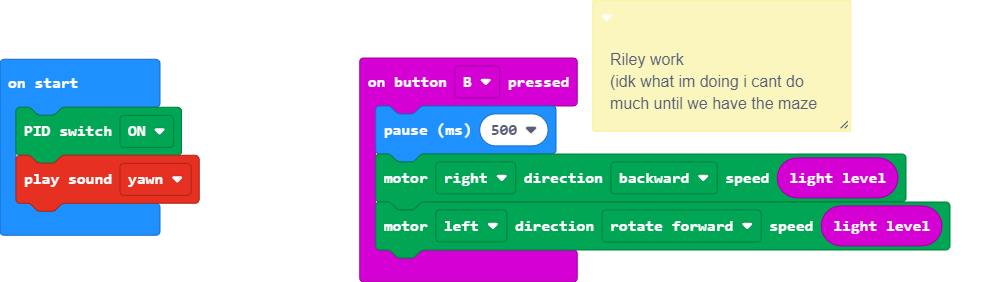
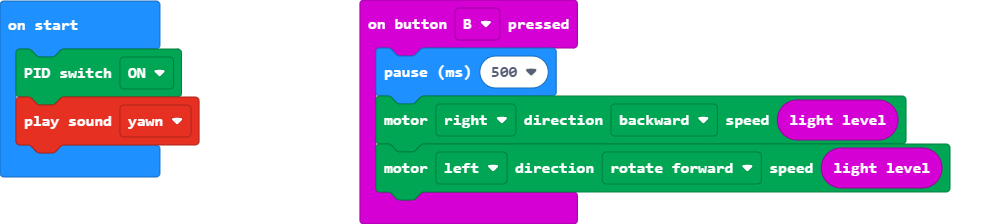
Update main.blocks, main.ts

diff --git a/main.ts b/main.ts
@@ -1,8 +1,3 @@
-/**
- * Riley work
- * 
- * (idk what im doing i cant do much until we have the maze
- */
 input.onButtonPressed(Button.B, function () {
     basic.pause(500)
     DFRobotMaqueenPlus.mototRun(Motors.M2, Dir.CCW, input.lightLevel())
